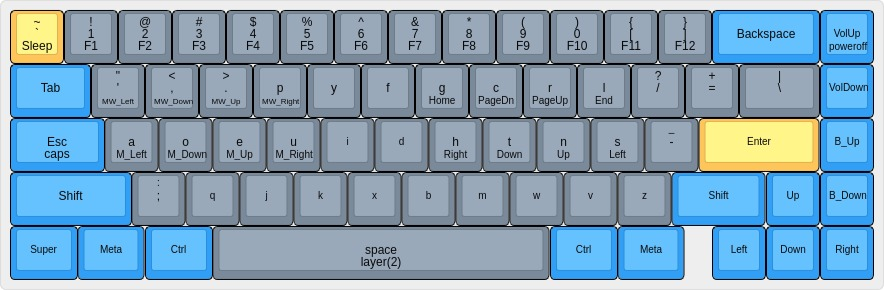
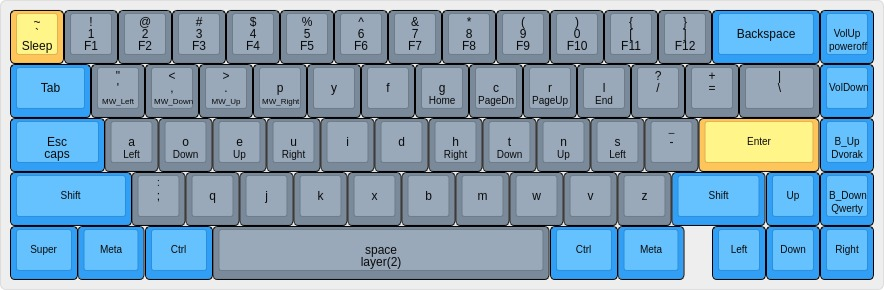
commit 14

diff --git a/template/keymap.c b/template/keymap.c
@@ -10,8 +10,8 @@
 
 const uint16_t PROGMEM keymaps[][MATRIX_ROWS][MATRIX_COLS] = {
   [Base_layer] = LAYOUT_65_ansi_blocker(
-  KC_GRV,  KC_1,    KC_2,    KC_3,    KC_4,    KC_5,    KC_6,    KC_7,    KC_8,    KC_9,    KC_0,    KC_MINS, KC_EQL,  KC_BSPC, KC_HOME,
-  KC_TAB,  KC_Q,    KC_W,    KC_E,    KC_R,    KC_T,    KC_Y,    KC_U,    KC_I,    KC_O,    KC_P,    KC_LBRC, KC_RBRC, KC_BSLS, KC_PGUP,
+  KC_GRV,  KC_1,    KC_2,    KC_3,    KC_4,    KC_5,    KC_6,    KC_7,    KC_8,    KC_9,    KC_0,    KC_MINS, KC_EQL,  KC_BSPC, KC_WH_U,
+  KC_TAB,  KC_Q,    KC_W,    KC_E,    KC_R,    KC_T,    KC_Y,    KC_U,    KC_I,    KC_O,    KC_P,    KC_LBRC, KC_RBRC, KC_BSLS, KC_WH_D,
   KC_ESC,  KC_A,    KC_S,    KC_D,    KC_F,    KC_G,    KC_H,    KC_J,    KC_K,    KC_L,    KC_SCLN, KC_QUOT, KC_ENT,           KC_PGDN,
   KC_LSFT, KC_Z,    KC_X,    KC_C,    KC_V,    KC_B,    KC_N,    KC_M,    KC_COMM, KC_DOT,  KC_SLSH, KC_RSFT,           KC_UP,   KC_END,
   KC_LCTL, KC_LALT, KC_LGUI,                            SPACE,                              KC_RGUI, KC_RALT, KC_LEFT, KC_DOWN, KC_RGHT
